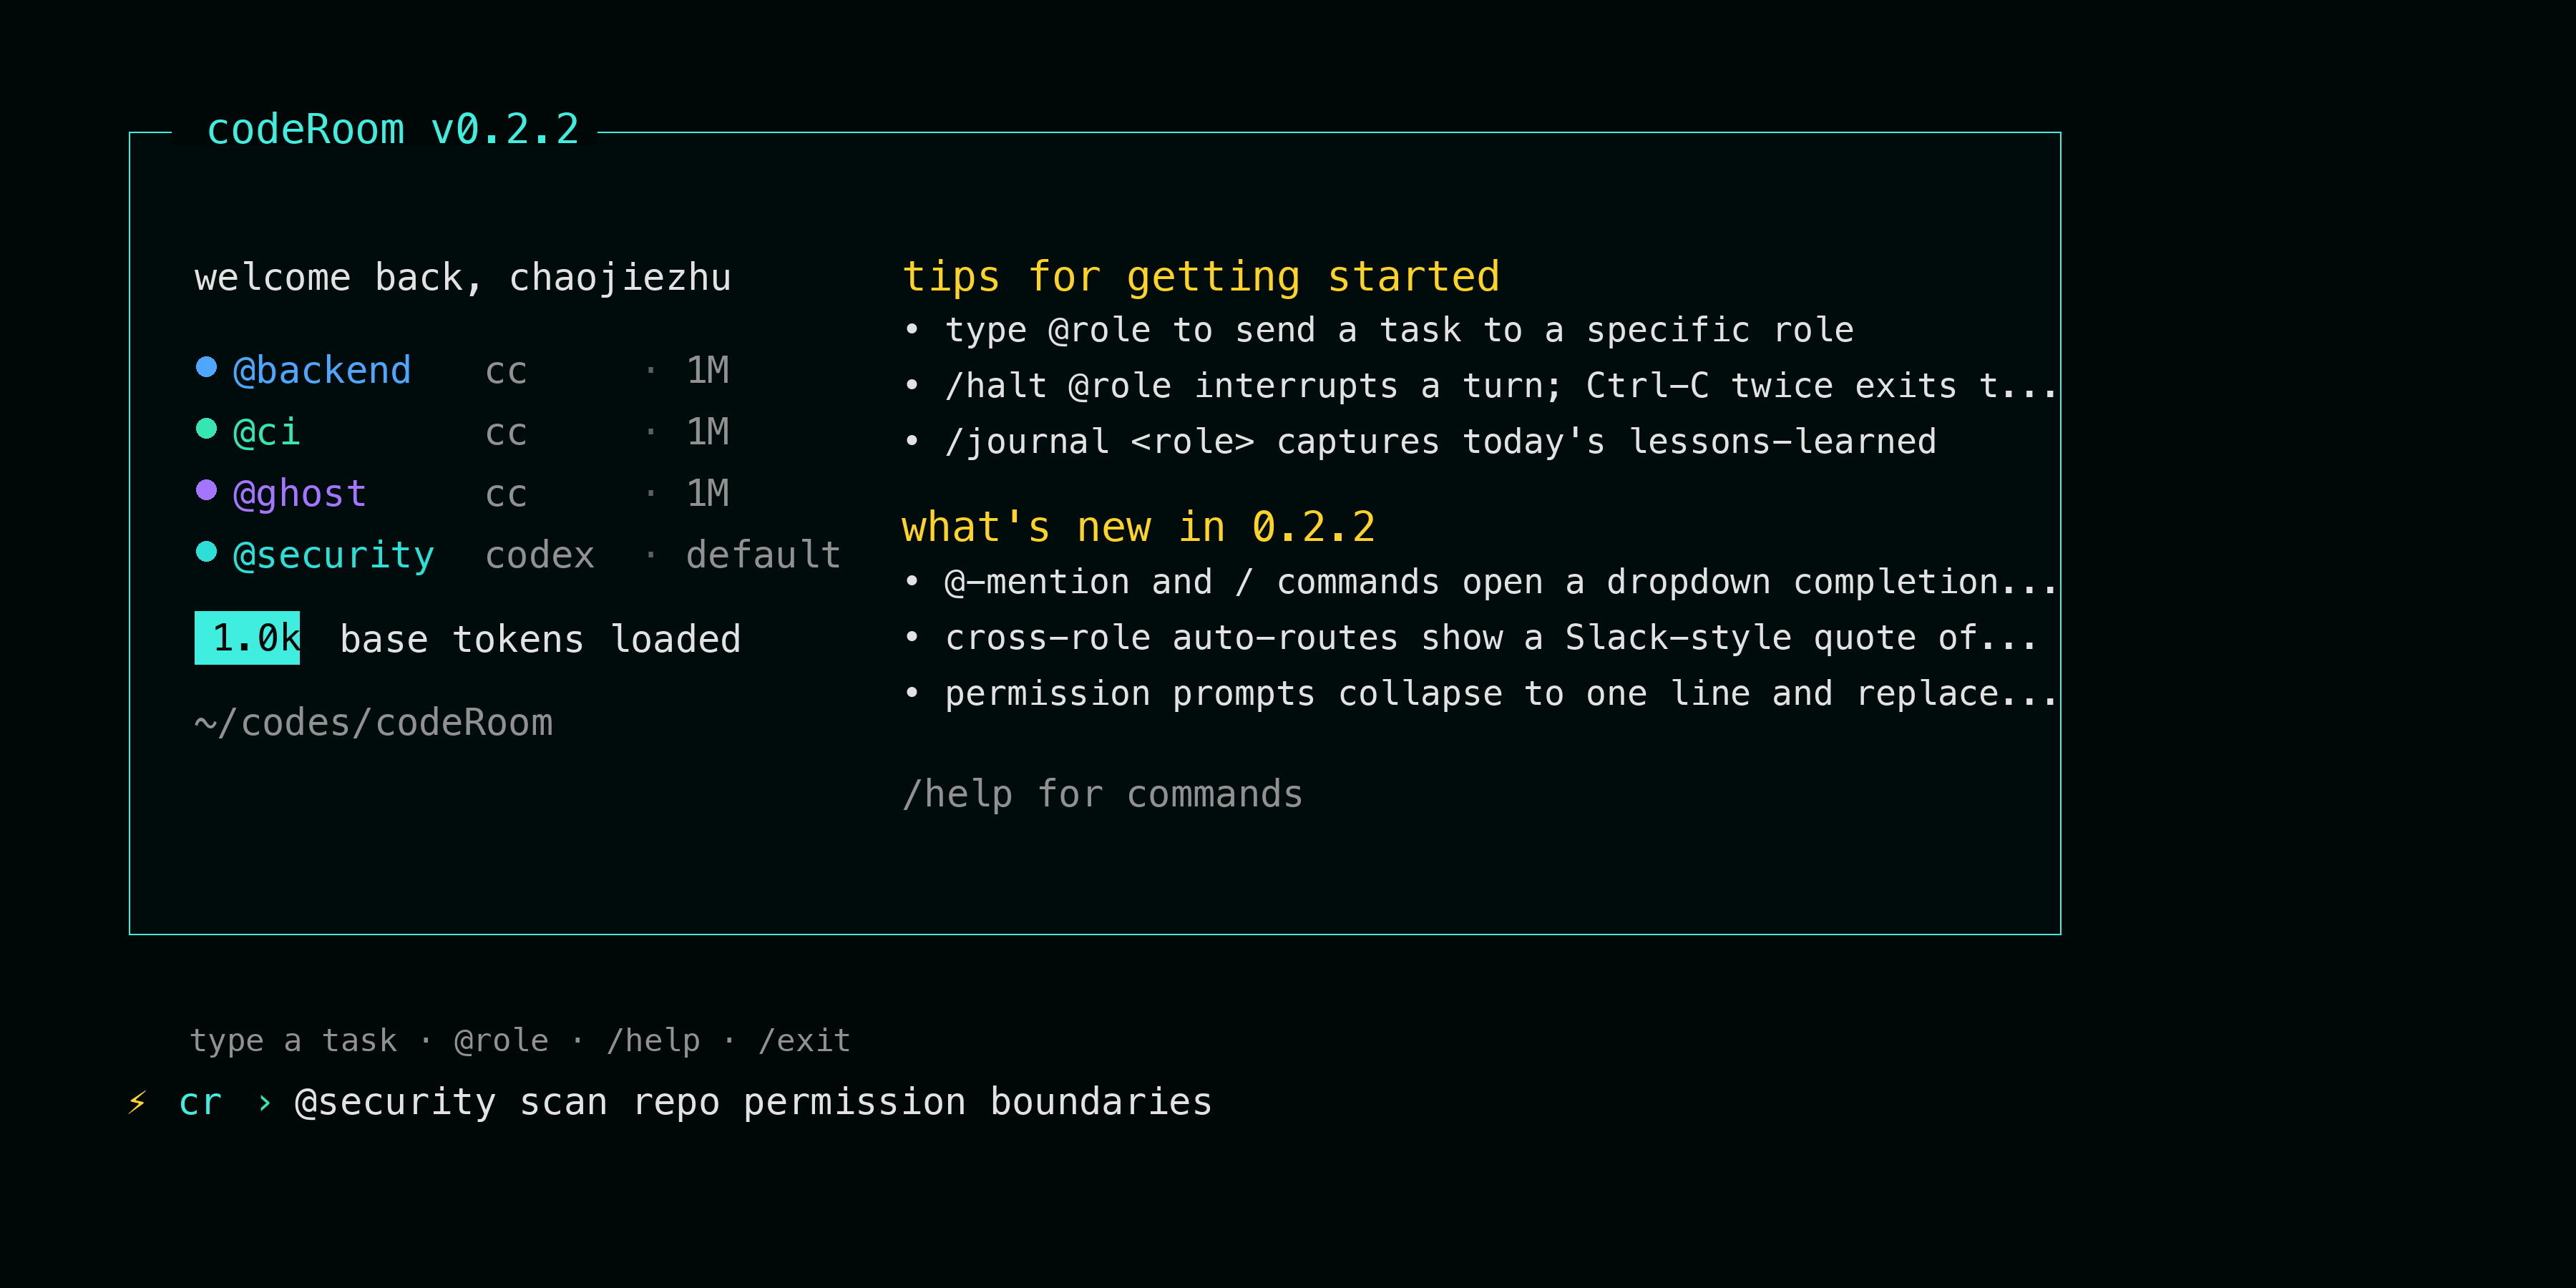
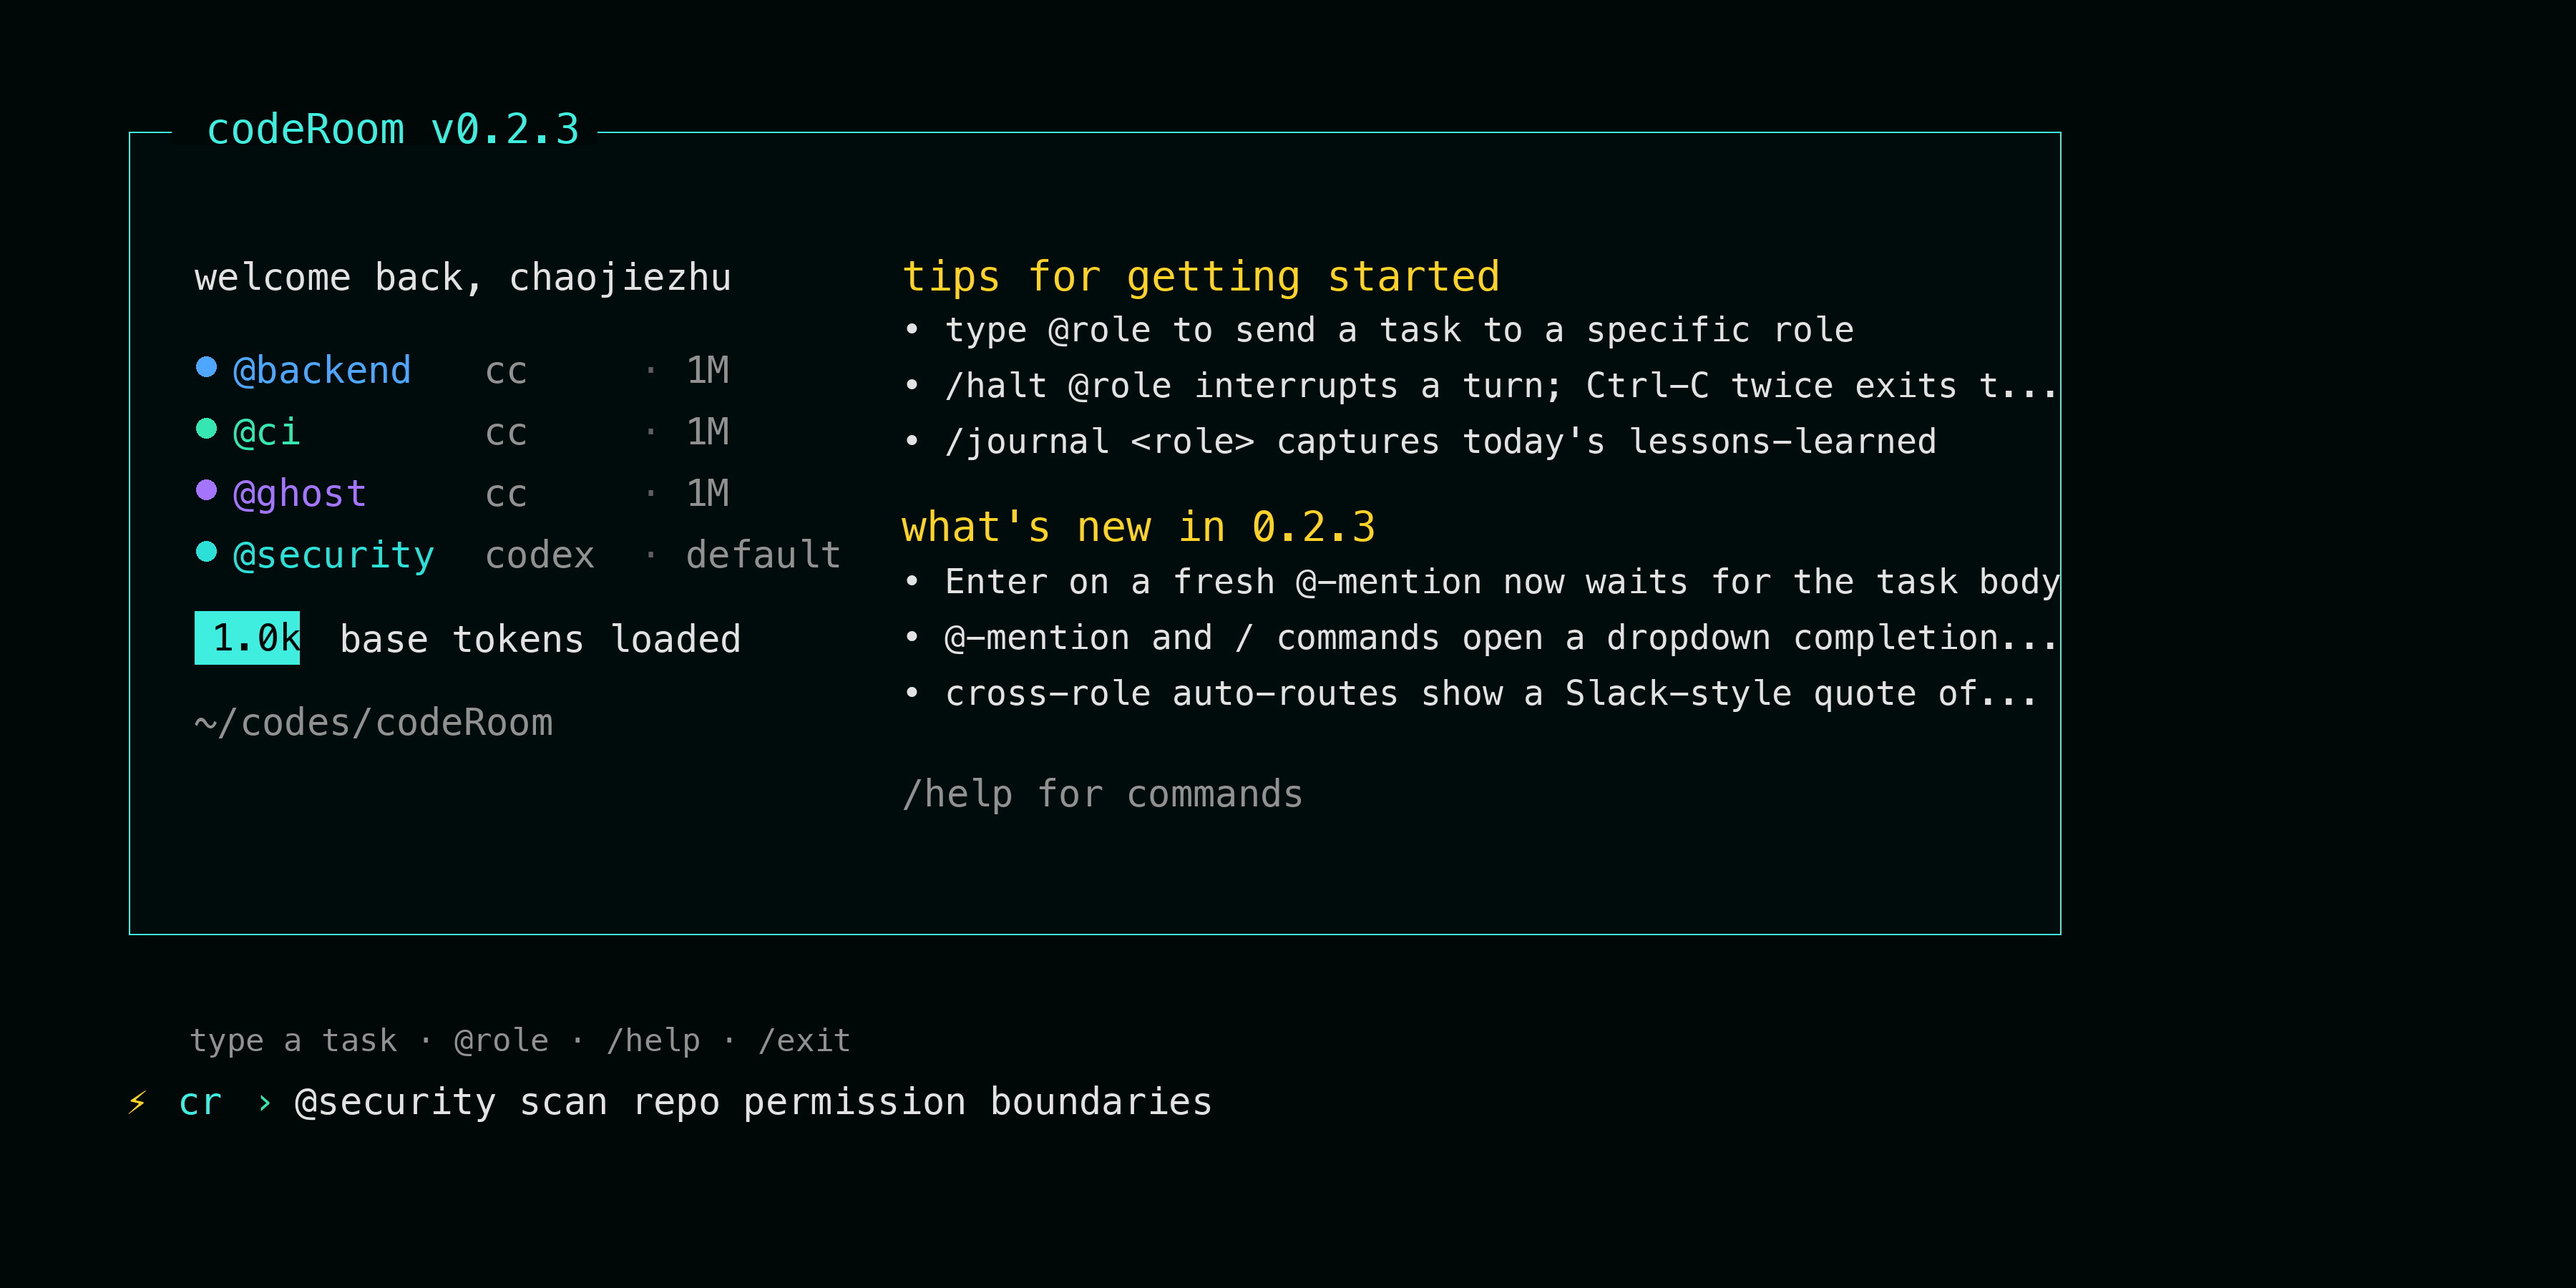
chore(release): v0.2.3 (#110)
Patch release for #109 — the Enter-key regression introduced by the
v0.2.x UX track (#96/#97):

- Cargo.toml, Cargo.lock, npm/package.json, src/lib.rs bumped to 0.2.3
- README status line + binary install snippet updated
- data/splash_content.toml gains a 0.2.3 what's new entry
- CHANGELOG [Unreleased] moves to [0.2.3] - 2026-05-11
- splash snapshot test updated
- README boot-dashboard image re-rendered to show v0.2.3

Changed region(s): [[0.3733, 0.4356, 0.8089, 0.56]]

diff --git a/src/repl/tests.rs b/src/repl/tests.rs
@@ -533,17 +533,17 @@ fn snapshot_boot_dashboard_at_80() {
     .trim_start_matches('\n')
     .to_owned();
     insta::assert_snapshot!(rendered, @r"
-┌─ codeRoom v0.2.2 ────────────────────────────────────────────────────────────┐
+┌─ codeRoom v0.2.3 ────────────────────────────────────────────────────────────┐
 │                                                                              │
 │ welcome back, Ada              tips for getting started                      │
 │                                • type @role to send a task to a specific ro… │
 │ ● @backend   cc     · 1M       • /halt @role interrupts a turn; Ctrl-C twic… │
 │ ● @host      cc     · 1M       • /journal <role> captures today's lessons-l… │
 │ ● @security  codex  · default                                                │
-│                                what's new in 0.2.2                           │
-│  0  base tokens loaded         • @-mention and / commands open a dropdown c… │
-│ /repo/codeRoom                 • cross-role auto-routes show a Slack-style … │
-│                                • permission prompts collapse to one line an… │
+│                                what's new in 0.2.3                           │
+│  0  base tokens loaded         • Enter on a fresh @-mention now waits for t… │
+│ /repo/codeRoom                 • @-mention and / commands open a dropdown c… │
+│                                • cross-role auto-routes show a Slack-style … │
 │                                                                              │
 │                                /help for commands                            │
 │                                                                              │

diff --git a/src/lib.rs b/src/lib.rs
@@ -4,7 +4,7 @@
 //! primary consumer. See `docs/architecture.md` for the v0.1 constitution and
 //! `docs/v0.2-trust-and-interrupt.md` for the v0.2 amendment.
 
-#![doc(html_root_url = "https://docs.rs/coderoom/0.2.2")]
+#![doc(html_root_url = "https://docs.rs/coderoom/0.2.3")]
 #![warn(missing_debug_implementations)]
 #![warn(rust_2018_idioms)]
 

diff --git a/CHANGELOG.md b/CHANGELOG.md
@@ -7,6 +7,21 @@ and this project adheres to [Semantic Versioning](https://semver.org/spec/v2.0.0
 
 ## [Unreleased]
 
+## [0.2.3] - 2026-05-11
+
+### Fixed
+
+- **Enter on a freshly-accepted `@`-mention no longer dispatches an
+  empty-body turn.** The completion menu and slash autocomplete from
+  #97/#96 used to accept the visible ghost AND submit in one stroke,
+  so `@host<Enter>` would dispatch a turn with literal text `@host`
+  to the host role instead of waiting for the user to type their
+  task. The Enter handler now distinguishes "complete command,
+  submit" (`/help`, `/exit`, `/halt`, `/quit`, `/welcome`) from
+  "needs more input, just confirm" (`@role `, `/allow `,
+  `/refresh `, etc.) and only submits when the buffer is a complete
+  request. Matches the Slack / Discord convention. (#109)
+
 ## [0.2.2] - 2026-05-11
 
 ### Added

diff --git a/README.md b/README.md
@@ -12,7 +12,7 @@
 
 ![CodeRoom role work cards](docs/images/work-cards.png)
 
-> **Status: v0.2.2 — user-runnable, still pre-1.0.** Claude Code,
+> **Status: v0.2.3 — user-runnable, still pre-1.0.** Claude Code,
 > Codex, and Gemini adapters are wired up; bare `cr` opens CodeRoom
 > directly, guides setup when `.coderoom/` is missing, and shows the
 > effective role / engine / model configuration on entry. **v0.2**
@@ -114,7 +114,7 @@ Disable that with `CODEROOM_NO_UPDATE_CHECK=1` or
 <summary>Don't have npm? Direct binary install.</summary>
 
 ```bash
-TAG=v0.2.2
+TAG=v0.2.3
 ARCH=$(uname -m); case "$ARCH" in arm64|aarch64) ARCH=aarch64 ;; *) ARCH=x86_64 ;; esac
 OS=$(uname -s | tr '[:upper:]' '[:lower:]')
 curl -fsSL "https://github.com/spytensor/codeRoom/releases/download/${TAG}/cr-${TAG}-${OS}-${ARCH}.tar.gz" \